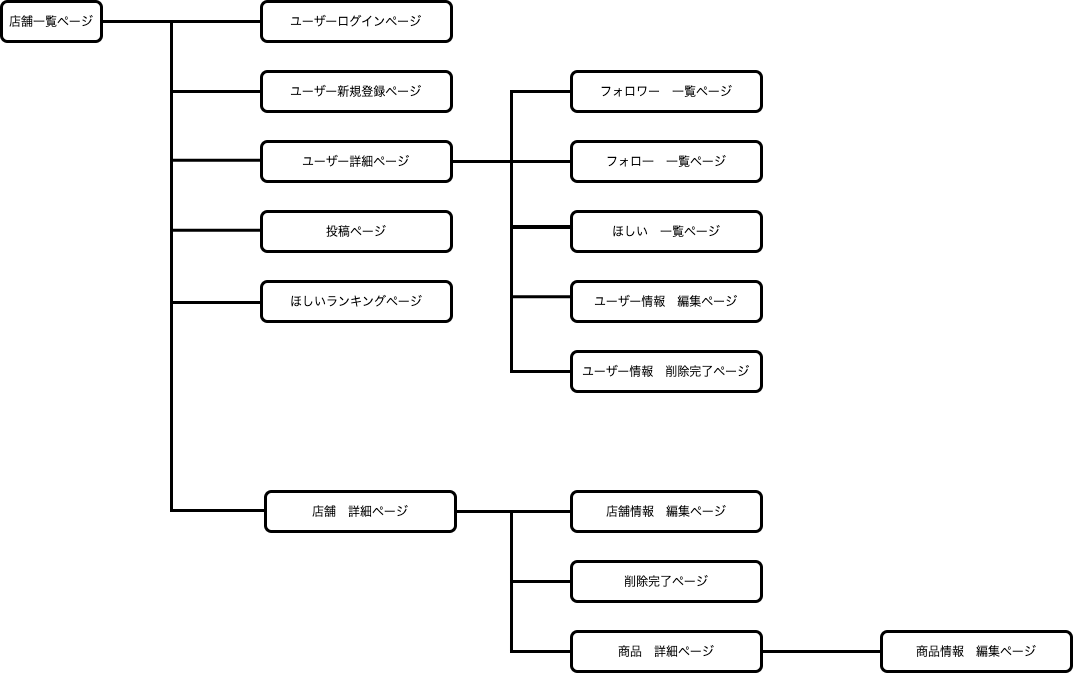
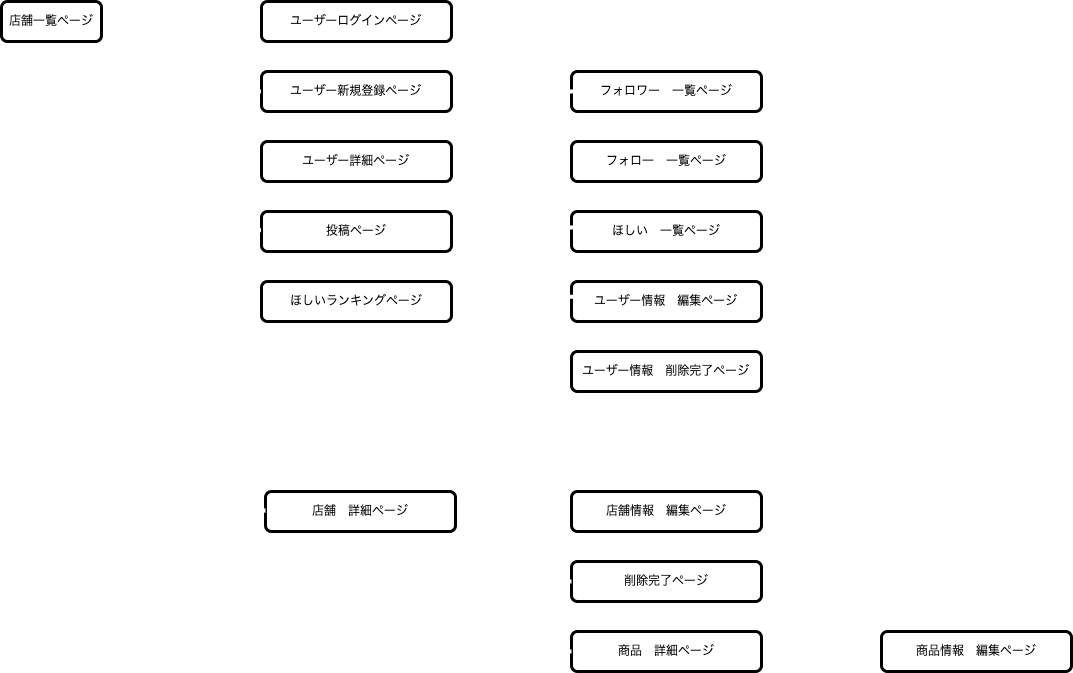
READMEの修正２

diff --git a/README.md b/README.md
@@ -38,10 +38,10 @@ https://coffee-post.herokuapp.com/
 - タグ機能
 - ユーザーフォロー機能
 # データベース設計
-[![Image from Gyazo](https://i.gyazo.com/70c059ec6a941c15841480f3458ff6a4.png)](https://gyazo.com/70c059ec6a941c15841480f3458ff6a4)
+[![Image from Gyazo](https://i.gyazo.com/d5cddb6a2cca9f4e4cf5acefa8116755.png)](https://gyazo.com/d5cddb6a2cca9f4e4cf5acefa8116755)
 
 # 画面遷移図
-[![Image from Gyazo](https://i.gyazo.com/3c909c0dbf01bb1fec9b71015be47c59.png)](https://gyazo.com/3c909c0dbf01bb1fec9b71015be47c59)
+[![Image from Gyazo](https://i.gyazo.com/dbd4f5b3c20471290ad24254e0d45ebf.png)](https://gyazo.com/dbd4f5b3c20471290ad24254e0d45ebf)
 
 # 開発環境
 ### フロントエンド
